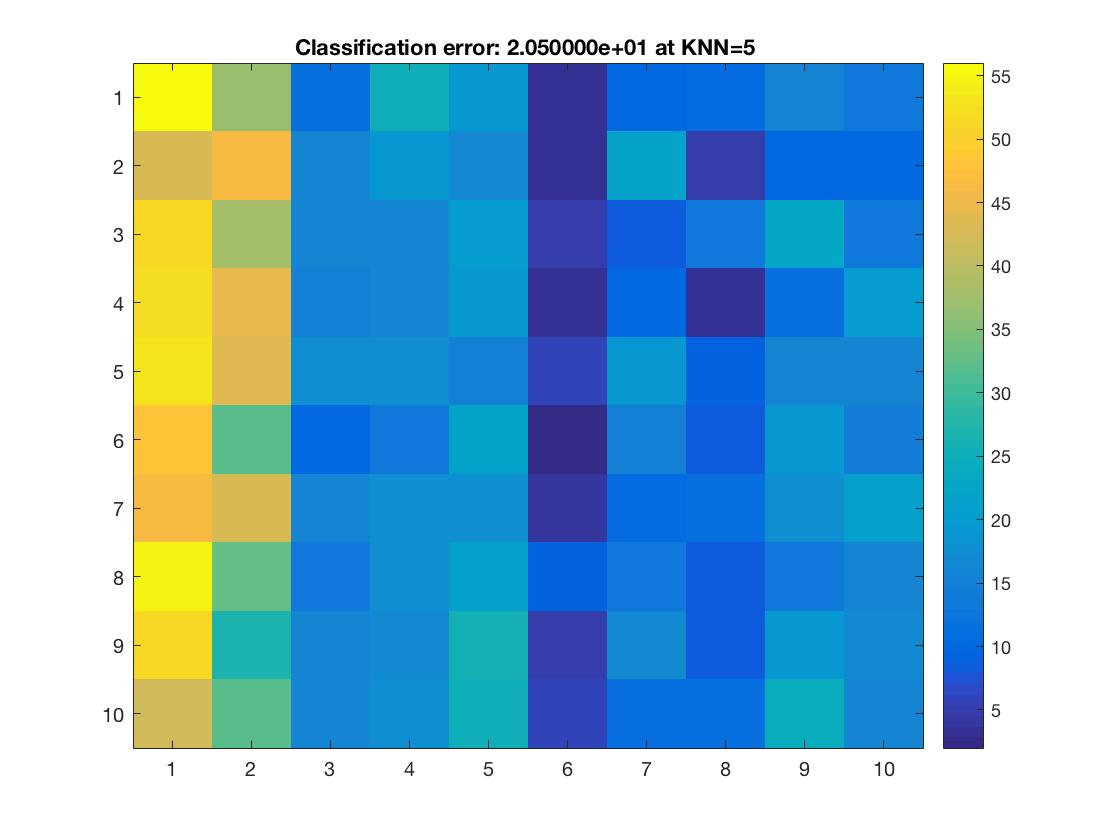
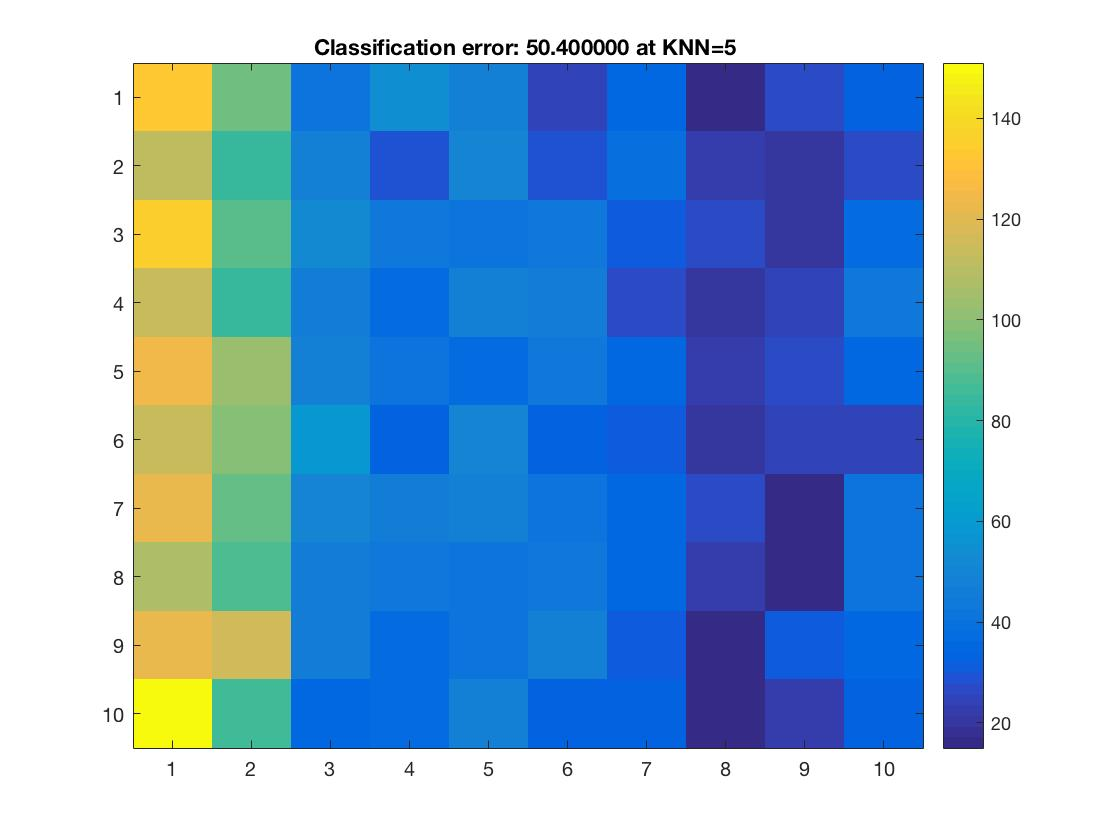
finished C classification

diff --git a/classify.m b/classify.m
@@ -5,7 +5,7 @@ system('tar -xzvf cifar-10-matlab.tar.gz')
 %% load CIFAR images 
 load('cifar-10-batches-mat/batches.meta.mat')
 load cifar-10-batches-mat/data_batch_1.mat
-n=2000; % SUBSAMPLE SIZE 
+n=5000; % SUBSAMPLE SIZE 
 train = double(data(1:n,:)) ; 
 y_train = labels(1:n); 
 %% display first airplane image from test set 
@@ -67,7 +67,7 @@ accuracy = (trace(C)/10);
 figure;
 imagesc(C); 
 colorbar 
-title(sprintf('class confusion matrix, average classification accuracy: %d',accuracy))
+title(sprintf('class confusion matrix, average classification accuracy: %f',accuracy))
 
 % plot figures 
 % figure;
@@ -96,127 +96,133 @@ for k=1:length(knn)
     end
     
     [C,order] = confusionmat( neighbors(:,1,k), neighbors(:,2,k) );
-    error = (trace(C)/10);
+    error = 100 - (trace(C)/10);
 
     figure;
     imagesc(C); 
     colorbar 
-    title( sprintf( 'Classification error: %d at KNN=%d ',error, knn(k) ) )
+    title( sprintf( 'Classification error: %f at KNN=%d ',error, knn(k) ) )
+
+end
+
+%% KNN cosine similarity / normalized correlation: 
+
+D = pdist2(train,test,'cosine'); % returns D(i,j) where X(i) Y(j)
+
+knn=[1 3 5];
+neighbors = zeros(n,3,length(knn));
+
+for k=1:length(knn) 
+    
+    for traincol=1:n
+        
+        [colval,colidx] = sort(D(:,traincol));
+        neighbor1 = traincol; % training obs 
+        neighbors2 = colidx(1:knn(k)); % test obs
+        class = mode( test_label( neighbors2(:) ) ); 
+        neighbors(traincol,1,k) = train_label(neighbor1); % training label 
+        neighbors(traincol,2,k) = class; % predicted class label 
+        neighbors(traincol,3,k) = test_label(neighbors2(1)); %  
+    end
+    
+    [C,order] = confusionmat( neighbors(:,1,k), neighbors(:,2,k) );
+    accuracy = (trace(C)/10);
+
+    figure;
+    imagesc(C); 
+    colorbar 
+    title( sprintf( 'Classification accuracy: %f at KNN=%d ',accuracy, knn(k) ) )
 
 end
 
 
+%% Spearman 
 
-%%
+D = pdist2(train,test,'spearman'); % returns D(i,j) where X(i) Y(j)
 
+knn=[1 3 5];
+neighbors = zeros(n,3,length(knn));
 
+for k=1:length(knn) 
+    
+    for traincol=1:n
+        
+        [colval,colidx] = sort(D(:,traincol));
+        neighbor1 = traincol; % training obs 
+        neighbors2 = colidx(1:knn(k)); % test obs
+        class = mode( test_label( neighbors2(:) ) ); 
+        neighbors(traincol,1,k) = train_label(neighbor1); % training label 
+        neighbors(traincol,2,k) = class; % predicted class label 
+        neighbors(traincol,3,k) = test_label(neighbors2(1)); %  
+    end
+    
+    [C,order] = confusionmat( neighbors(:,1,k), neighbors(:,2,k) );
+    accuracy = (trace(C)/10);
 
+    figure;
+    imagesc(C); 
+    colorbar 
+    title( sprintf( 'Classification accuracy: %f at KNN=%d ',accuracy, knn(k) ) )
 
+end
 
+%% correlation 
 
+D = pdist2(train,test,'correlation'); % returns D(i,j) where X(i) Y(j)
 
+knn=[1 3 5];
+neighbors = zeros(n,3,length(knn));
 
+for k=1:length(knn) 
+    
+    for traincol=1:n
+        
+        [colval,colidx] = sort(D(:,traincol));
+        neighbor1 = traincol; % training obs 
+        neighbors2 = colidx(1:knn(k)); % test obs
+        class = mode( test_label( neighbors2(:) ) ); 
+        neighbors(traincol,1,k) = train_label(neighbor1); % training label 
+        neighbors(traincol,2,k) = class; % predicted class label 
+        neighbors(traincol,3,k) = test_label(neighbors2(1)); %  
+    end
+    
+    [C,order] = confusionmat( neighbors(:,1,k), neighbors(:,2,k) );
+    accuracy = (trace(C)/10);
 
+    figure;
+    imagesc(C); 
+    colorbar 
+    title( sprintf( 'Classification accuracy: %f at KNN=%d ',accuracy, knn(k) ) )
 
+end
 
+%% chebychev ,  *hamming*
 
-%% scratch notes 
-% Mdl = fitcknn(img,labels,'NumNeighbors',5,'Standardize',1);
-% % classify.m 
-% % fitcknn()  k=1 for nearest neighbor  
-% % pdist2 to compute pairwise distances 
-% % title, subplot, imagesc, imshow, mean, imread, rgb2gray, dir, reshape
-% 
-% % filelist = dir('images/*.jpg');
-% %       for i=1:length(filelist)
-% %                imname = ['images/' filelist(i).name];
-% %                nextim = imread(imname);
-% %       . . .
-% %       end
-% 
-% load cifar-10-batches-mat/data_batch_1.mat
-% % load batches.meta.mat
-% 
-% %% convert training dataset of cifar10 
-% X = reshape(data', [32, 32, 3, 10000]);
-% X = permute(X, [2 1 3 4]);
-% Y = labels + 1;
-% 
-% save cifar10-test X Y
-% %% preview one picture
-% figure;
-% imshow(imresize(X(:,:,:,2), [128, 128]))
-% 
-% load cifar-10-batches-mat/test_batch.mat
-% test = reshape(data', [32, 32, 3, 10000]);
-% test = permute(test, [2 1 3 4]);
-% test_label = labels + 1;
-% 
-% figure; 
-% imshow(imresize(test(:,:,:,2), [128, 128]))
-% 
-% A=zeros([32 32 3 n]);
-% for i = 1:n
-% % use first 30 ...
-% R=train(i,1:1024); % first row = first image 
-% G=train(i,1025:2048);
-% B=train(i,2049:3072);
-% 
-% A(:,:,1,i)=reshape(R,32,32);
-% A(:,:,2,i)=reshape(G,32,32);
-% A(:,:,3,i)=reshape(B,32,32); % this is of data type double 
-% 
-% end
-% figure;
-% subplot(1,2,1)
-% imshow(imresize(uint8(A(:,:,:,1)), [128, 128]))
-% subplot(1,2,2)
-% imshow(imresize(uint8(A(:,:,:,4)), [128, 128]))
-% 
-% for i=1:n
-% figure; 
-% imshow(imresize(traind(:,:,:,i), [128, 128]))
-% end
-% 
-% [IDX,D] = knnsearch(X,Y)
-% 
-% for i = 1:n
-%     for j = 1:n
-% 
-% [class] = KNNClassifier( train, test(i,:), knn, y_train) % check one test sample against all training samples 
-% 
-% 
-%     end
-% end
-% 
-% % load cifar-10-batches-mat/test_batch.mat
-% load cifar-10-batches-mat/data_batch_1.mat
-% load cifar-10-batches-mat/batches.meta.mat
-% size(data)
-%    
-% n=30;
-% A=zeros([32 32 3 n]);
-% 
-% for i = 1:n
-% % use first 30 ...
-% R=data(i,1:1024); % first row = first image 
-% G=data(i,1025:2048);
-% B=data(i,2049:3072);
-% 
-% A(:,:,1,i)=reshape(R,32,32);
-% A(:,:,2,i)=reshape(G,32,32);
-% A(:,:,3,i)=reshape(B,32,32); % this is of data type double 
-% 
-% end
-% 
-% i=30
-% figure; 
-% subplot(1,2,1)
-% imshow(uint8(A(:,:,:,i))) % to imshow/image, must convert from double to uint8 
-% subplot(1,2,2)
-% imagesc(uint8(A(:,:,:,i)))
-% 
-% 
-% img = A(:,:,:,i);
+D = pdist2(train,test,'hamming'); % returns D(i,j) where X(i) Y(j)
 
+knn=[1 3 5];
+neighbors = zeros(n,3,length(knn));
+
+for k=1:length(knn) 
+    
+    for traincol=1:n
+        
+        [colval,colidx] = sort(D(:,traincol));
+        neighbor1 = traincol; % training obs 
+        neighbors2 = colidx(1:knn(k)); % test obs
+        class = mode( test_label( neighbors2(:) ) ); 
+        neighbors(traincol,1,k) = train_label(neighbor1); % training label 
+        neighbors(traincol,2,k) = class; % predicted class label 
+        neighbors(traincol,3,k) = test_label(neighbors2(1)); %  
+    end
+    
+    [C,order] = confusionmat( neighbors(:,1,k), neighbors(:,2,k) );
+    accuracy = (trace(C)/10);
+
+    figure;
+    imagesc(C); 
+    colorbar 
+    title( sprintf( 'Classification accuracy: %f at KNN=%d ',accuracy, knn(k) ) )
+%     imwrite(imagesc(C),'figc7.png')
+end
 
